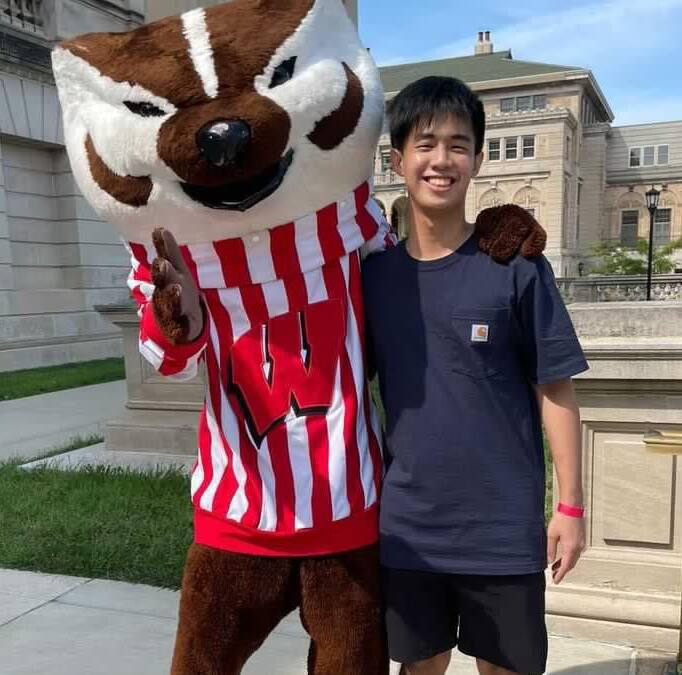
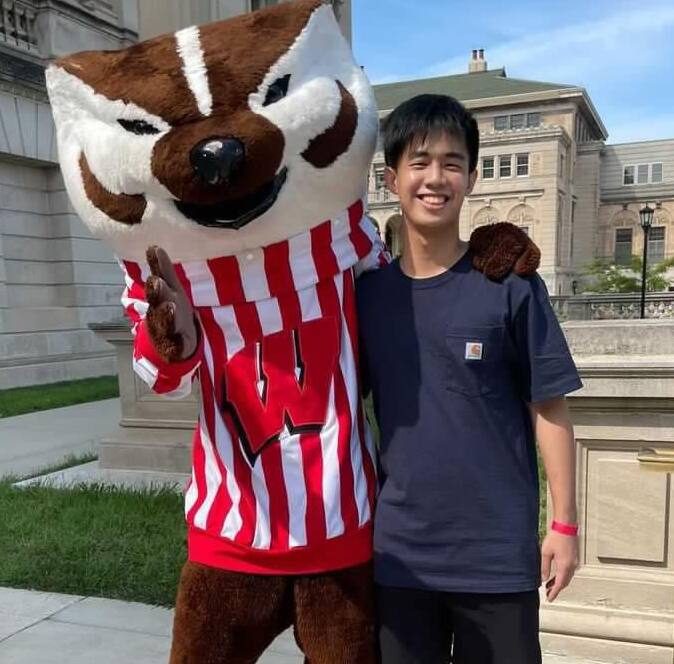
modify content

diff --git a/index.html b/index.html
@@ -98,15 +98,18 @@
             </div>
             <div class="row align-items-center">
                 <div class="col-lg-5 pb-4 pb-lg-0">
-                    <img class="img-fluid rounded w-100" src="img/about.jpg" alt="">
+                    <img class="img-fluid rounded w-300" src="img/about.jpg" alt="">
                 </div>
                 <div class="col-lg-7">
-                    <h3 class="mb-4">Software Engineer</h3>
-                    <p>My name is Alex Huang and I am a junior studying computer science and data science at Universty of Wisconsin-Madison. I am broadly interested in software engineering and machine learning.</p>
+                    <h3 class="mb-4">Alex Huang (Wei-Chun Huang)</h3>
+                    <p>I am a junior studying computer science and data science at the University of Wisconsin-Madison, and I am broadly interested in machine learning and computer vision application.  </p>
+                    <p>I have done some research and projects related to machine learning, and I am also TA-ing an intro-level ai course here at UW-Madison. During my free time, I love to play poker and board games with my friends and play basketball once in a while.
+                    </p>
+                    <br/>
                     <div class="row mb-3">
                         <div class="col-sm-6 py-2"><h6>Name: <span class="text-secondary">Wei-Chun Huang (Alex Huang)</span></h6></div>
                         <div class="col-sm-6 py-2"><h6>Degree: <span class="text-secondary">Computer Science B.S.</span></h6></div>
-                        <div class="col-sm-6 py-2"><h6>Phone: <span class="text-secondary">+1 6084713887</span></h6></div>
+                        <div class="col-sm-6 py-2"><h6>Phone: <span class="text-secondary">+1 608-471-3887</span></h6></div>
                         <div class="col-sm-6 py-2"><h6>Email: <span class="text-secondary">whuang288@wisc.edu</span></h6></div>
                         <div class="col-sm-6 py-2"><h6>Location 1: <span class="text-secondary">Madison, Wisconsin</span></h6></div>
                         <div class="col-sm-6 py-2"><h6>Location 2: <span class="text-secondary">Hsinchu, Taiwan</span></h6></div>
@@ -126,50 +129,53 @@
                 <h1 class="display-1 text-uppercase text-white" style="-webkit-text-stroke: 1px #dee2e6;">Quality</h1>
                 <h1 class="position-absolute text-uppercase text-primary">Education & Expericence</h1>
             </div>
-            <div class="row align-items-center">
-                <!-- <div class="col-lg-6">
-                    <h3 class="mb-4">My Education</h3>
+            <div class="row align-items-top">
+                <div class="col-lg-6">
+                    <h3 class="mb-4">Education</h3>
                     <div class="border-left border-primary pt-2 pl-4 ml-2">
                         <div class="position-relative mb-4">
                             <i class="far fa-dot-circle text-primary position-absolute" style="top: 2px; left: -32px;"></i>
-                            <h5 class="font-weight-bold mb-1">Master In CSE</h5>
-                            <p class="mb-2"><strong>Cambridge University</strong> | <small>2000 - 2050</small></p>
-                            <p>Tempor eos dolore amet tempor dolor tempor. Dolore ea magna sit amet dolor eirmod. Eos ipsum est tempor dolor. Clita lorem kasd sed ea lorem diam ea lorem eirmod duo sit ipsum stet lorem diam</p>
-                        </div>
-                        <div class="position-relative mb-4">
-                            <i class="far fa-dot-circle text-primary position-absolute" style="top: 2px; left: -32px;"></i>
-                            <h5 class="font-weight-bold mb-1">Master In CSE</h5>
-                            <p class="mb-2"><strong>Cambridge University</strong> | <small>2000 - 2050</small></p>
-                            <p>Tempor eos dolore amet tempor dolor tempor. Dolore ea magna sit amet dolor eirmod. Eos ipsum est tempor dolor. Clita lorem kasd sed ea lorem diam ea lorem eirmod duo sit ipsum stet lorem diam</p>
-                        </div>
-                        <div class="position-relative mb-4">
-                            <i class="far fa-dot-circle text-primary position-absolute" style="top: 2px; left: -32px;"></i>
-                            <h5 class="font-weight-bold mb-1">Master In CSE</h5>
-                            <p class="mb-2"><strong>Cambridge University</strong> | <small>2000 - 2050</small></p>
-                            <p>Tempor eos dolore amet tempor dolor tempor. Dolore ea magna sit amet dolor eirmod. Eos ipsum est tempor dolor. Clita lorem kasd sed ea lorem diam ea lorem eirmod duo sit ipsum stet lorem diam</p>
+                            <h5 class="font-weight-bold mb-1">Computer Science B.S.</h5>
+                            <p class="mb-2"><strong>University of Wisconsin-Madison</strong> | <small>2020 - 2024</small></p>
+                            <p> Overall GPA: 4.0/4.0 </p>
+
+                            <div class="position-relative mb-4">
+                                <i class="far fa-dot-circle text-primary position-absolute" style="top: 2px; left: -32px;"></i>
+                                <h5 class="font-weight-bold mb-1"> Selected Courses </h5>
+                                <div class="col-sm-6 py-2"><h6> Deep Learning </h6></div>
+                                <div class="col-sm-6 py-2"><h6> Matrix Methods in ML</h6></div>
+                                <div class="col-sm-6 py-2"><h6> Probability theory in ML</h6></div>
+                                <div class="col-sm-6 py-2"><h6> Computer Vision</h6></div>
+                                <div class="col-sm-6 py-2"><h6> Honors Algorithms </h6></div>
+                                <div class="col-sm-6 py-2"><h6> Big Data Systems</h6></div>
+                                <div class="col-sm-6 py-2"><h6> Database Systems</h6></div>
+                                <div class="col-sm-6 py-2"><h6> Operating Systems</h6></div>
+                            </div>
+                            
                         </div>
                     </div>
-                </div> -->
+                </div>
                 <div class="col-lg-6">
                     <h3 class="mb-4">My Expericence</h3>
                     <div class="border-left border-primary pt-2 pl-4 ml-2">
                         <div class="position-relative mb-4">
                             <i class="far fa-dot-circle text-primary position-absolute" style="top: 2px; left: -32px;"></i>
-                            <h5 class="font-weight-bold mb-1">Web Designer</h5>
-                            <p class="mb-2"><strong>Soft Company</strong> | <small>2000 - 2050</small></p>
-                            <p>Tempor eos dolore amet tempor dolor tempor. Dolore ea magna sit amet dolor eirmod. Eos ipsum est tempor dolor. Clita lorem kasd sed ea lorem diam ea lorem eirmod duo sit ipsum stet lorem diam</p>
+                            <h5 class="font-weight-bold mb-1">Undergraduate Researcher</h5>
+                            <p class="mb-2"><strong>UW-Madison, Computational Materials Group  </strong> | <small>09.02.2022 - 12.14.2022</small></p>
+                            <p>Performed data cleaning, feature generation and engineering, and model fitting using machine learning workflow in MASTML. Gain experince working with multiple models including SVM, MLP, Random Forest, etc.</p>
                         </div>
                         <div class="position-relative mb-4">
                             <i class="far fa-dot-circle text-primary position-absolute" style="top: 2px; left: -32px;"></i>
-                            <h5 class="font-weight-bold mb-1">Web Designer</h5>
-                            <p class="mb-2"><strong>Soft Company</strong> | <small>2000 - 2050</small></p>
-                            <p>Tempor eos dolore amet tempor dolor tempor. Dolore ea magna sit amet dolor eirmod. Eos ipsum est tempor dolor. Clita lorem kasd sed ea lorem diam ea lorem eirmod duo sit ipsum stet lorem diam</p>
+                            <h5 class="font-weight-bold mb-1">Undergraduate Teaching Assistant (Peer mentor) </h5>
+                            <p class="mb-2"><strong>UW-Madison, Department of Computer Sciences  </strong> | <small>09.02.2022 - 12.14.2022</small></p>
+                            <p>I teaches concepts such as PCA, clustering, Machine/Deep/Reinforcement Learning, NLP, Game Theory, etc. I am also responsible for assisting students with technical issues such as setting up Python and using Python libraries (Numpy, Scipy, Pytorch, etc.)
+                                </p>
                         </div>
                         <div class="position-relative mb-4">
                             <i class="far fa-dot-circle text-primary position-absolute" style="top: 2px; left: -32px;"></i>
-                            <h5 class="font-weight-bold mb-1">Web Designer</h5>
-                            <p class="mb-2"><strong>Soft Company</strong> | <small>2000 - 2050</small></p>
-                            <p>Tempor eos dolore amet tempor dolor tempor. Dolore ea magna sit amet dolor eirmod. Eos ipsum est tempor dolor. Clita lorem kasd sed ea lorem diam ea lorem eirmod duo sit ipsum stet lorem diam</p>
+                            <h5 class="font-weight-bold mb-1">Electrical Engineering Intern</h5>
+                            <p class="mb-2"><strong>Zebra Technologies Taiwan Co., Ltd.</strong> | <small>06.27.2022 - 09.02.2022</small></p>
+                            <p>My group proposed the concept of a multi-function device and built a model of the device with Nvidia Jetson Nano. I Implemented a face recognition lock with computer vision libraries, and was primarily responsible for implementing the user interface.</p>
                         </div>
                     </div>
                 </div>
@@ -190,7 +196,7 @@
                 <div class="col-md-6">
                     <div class="skill mb-4">
                         <div class="d-flex justify-content-between">
-                            <h6 class="font-weight-bold">HTML</h6>
+                            <h6 class="font-weight-bold">Python</h6>
                             <h6 class="font-weight-bold">95%</h6>
                         </div>
                         <div class="progress">
@@ -199,27 +205,27 @@
                     </div>
                     <div class="skill mb-4">
                         <div class="d-flex justify-content-between">
-                            <h6 class="font-weight-bold">CSS</h6>
-                            <h6 class="font-weight-bold">85%</h6>
+                            <h6 class="font-weight-bold">Java</h6>
+                            <h6 class="font-weight-bold">90%</h6>
                         </div>
                         <div class="progress">
-                            <div class="progress-bar bg-warning" role="progressbar" aria-valuenow="85" aria-valuemin="0" aria-valuemax="100"></div>
+                            <div class="progress-bar bg-warning" role="progressbar" aria-valuenow="90" aria-valuemin="0" aria-valuemax="100"></div>
                         </div>
                     </div>
                     <div class="skill mb-4">
                         <div class="d-flex justify-content-between">
-                            <h6 class="font-weight-bold">PHP</h6>
-                            <h6 class="font-weight-bold">90%</h6>
+                            <h6 class="font-weight-bold">C++</h6>
+                            <h6 class="font-weight-bold">85%</h6>
                         </div>
                         <div class="progress">
-                            <div class="progress-bar bg-danger" role="progressbar" aria-valuenow="90" aria-valuemin="0" aria-valuemax="100"></div>
+                            <div class="progress-bar bg-danger" role="progressbar" aria-valuenow="85" aria-valuemin="0" aria-valuemax="100"></div>
                         </div>
                     </div>
                 </div>
                 <div class="col-md-6">
                     <div class="skill mb-4">
                         <div class="d-flex justify-content-between">
-                            <h6 class="font-weight-bold">Javascript</h6>
+                            <h6 class="font-weight-bold">Pytorch</h6>
                             <h6 class="font-weight-bold">90%</h6>
                         </div>
                         <div class="progress">
@@ -228,20 +234,20 @@
                     </div>
                     <div class="skill mb-4">
                         <div class="d-flex justify-content-between">
-                            <h6 class="font-weight-bold">Angular JS</h6>
-                            <h6 class="font-weight-bold">95%</h6>
+                            <h6 class="font-weight-bold">MATLAB</h6>
+                            <h6 class="font-weight-bold">70%</h6>
                         </div>
                         <div class="progress">
-                            <div class="progress-bar bg-dark" role="progressbar" aria-valuenow="95" aria-valuemin="0" aria-valuemax="100"></div>
+                            <div class="progress-bar bg-dark" role="progressbar" aria-valuenow="70" aria-valuemin="0" aria-valuemax="100"></div>
                         </div>
                     </div>
                     <div class="skill mb-4">
                         <div class="d-flex justify-content-between">
-                            <h6 class="font-weight-bold">Wordpress</h6>
-                            <h6 class="font-weight-bold">85%</h6>
+                            <h6 class="font-weight-bold">R</h6>
+                            <h6 class="font-weight-bold">70%</h6>
                         </div>
                         <div class="progress">
-                            <div class="progress-bar bg-info" role="progressbar" aria-valuenow="85" aria-valuemin="0" aria-valuemax="100"></div>
+                            <div class="progress-bar bg-info" role="progressbar" aria-valuenow="70" aria-valuemin="0" aria-valuemax="100"></div>
                         </div>
                     </div>
                 </div>
@@ -252,7 +258,7 @@
 
 
     <!-- Services Start -->
-    <div class="container-fluid pt-5" id="service">
+    <!-- <div class="container-fluid pt-5" id="service">
         <div class="container">
             <div class="position-relative d-flex align-items-center justify-content-center">
                 <h1 class="display-1 text-uppercase text-white" style="-webkit-text-stroke: 1px #dee2e6;">Service</h1>
@@ -309,7 +315,7 @@
                 </div>
             </div>
         </div>
-    </div>
+    </div> -->
     <!-- Services End -->
 
 

diff --git a/css/style.css b/css/style.css
@@ -526,8 +526,9 @@ mark,
 }
 
 .img-fluid {
-  max-width: 100%;
+  max-width: 90%;
   height: auto;
+  border-radius: 50%;
 }
 
 .img-thumbnail {
@@ -6385,7 +6386,7 @@ button.bg-success:focus {
 }
 
 .bg-info {
-  background-color: #17a2b8 !important;
+  background-color: #808080  !important;
 }
 
 a.bg-info:hover, a.bg-info:focus,
@@ -6395,7 +6396,7 @@ button.bg-info:focus {
 }
 
 .bg-warning {
-  background-color: #ffc107 !important;
+  background-color: #0080FF !important;
 }
 
 a.bg-warning:hover, a.bg-warning:focus,
@@ -6405,7 +6406,7 @@ button.bg-warning:focus {
 }
 
 .bg-danger {
-  background-color: #dc3545 !important;
+  background-color: #6600CC !important;
 }
 
 a.bg-danger:hover, a.bg-danger:focus,
@@ -9660,6 +9661,7 @@ a.text-dark:hover, a.text-dark:focus {
   tr,
   img {
     page-break-inside: avoid;
+    border-radius: 100%;
   }
   p,
   h2,
